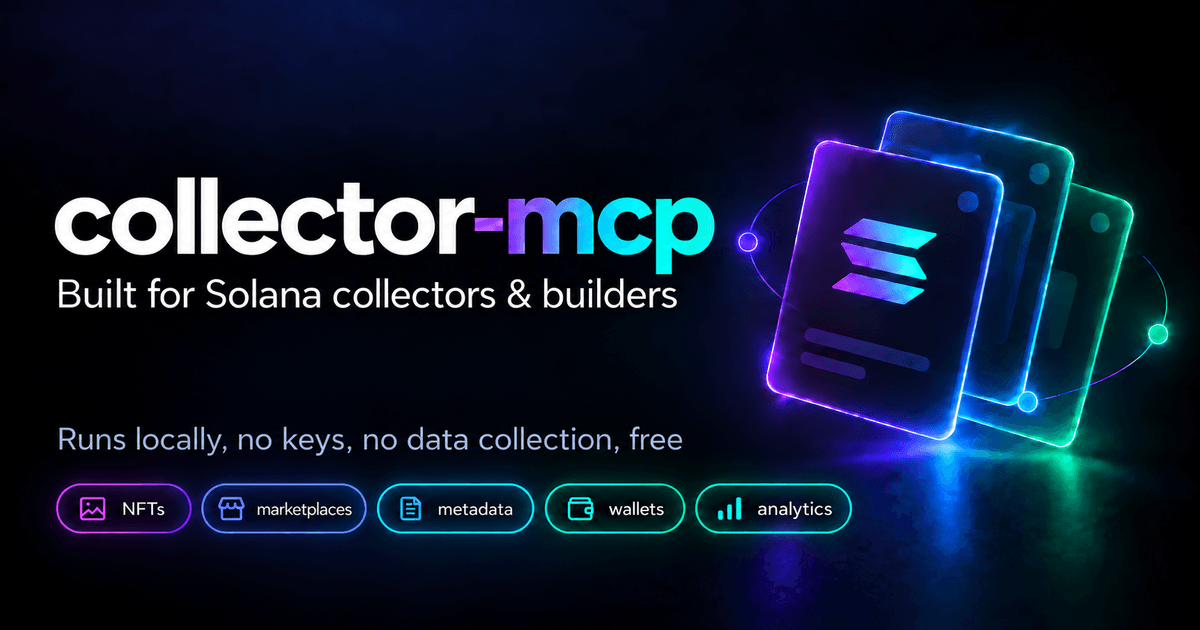
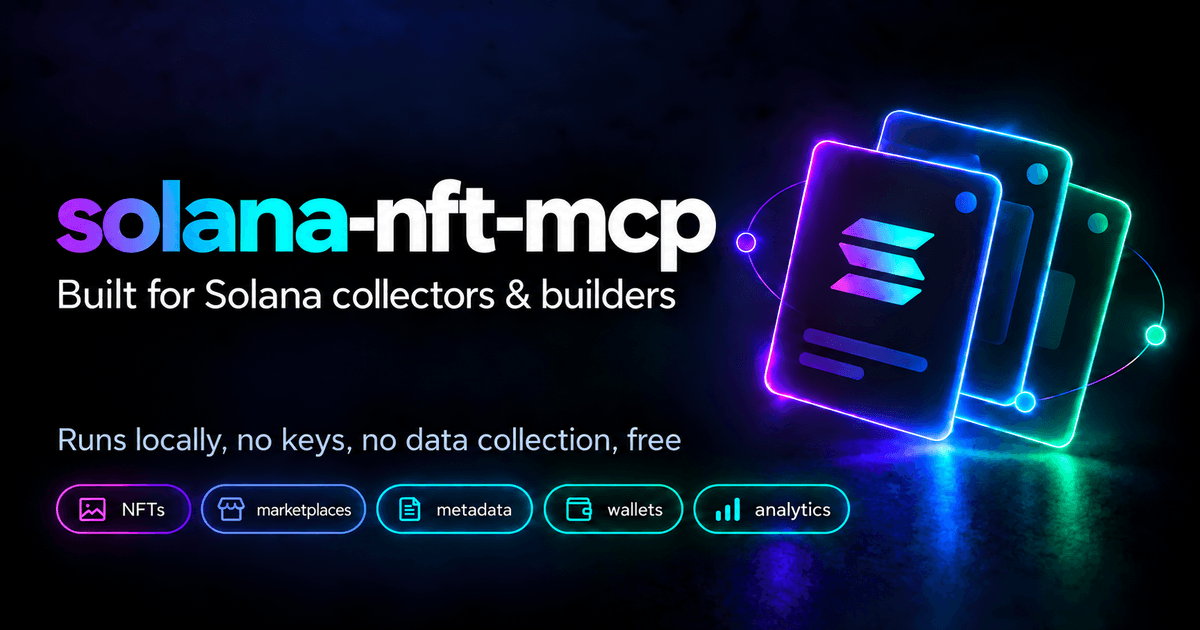
New artwork for the new name
The hero image and the square mark were redrawn, so every shipped picture is
regenerated from them: the README banner, the share card, the GitHub social
preview, and the icon the install bundle carries into a client's extension list.

All four are written without metadata, which is what the image check in CI
enforces. They are quantised rather than plain PNG: the first pass came out at
2.1 MB for the banner alone, and this is 400 KB with no visible banding. The
bundle got smaller, because the new icon is 61 KB where the old one was 240.

MAINTENANCE.md now records which source feeds which file, so the next redraw
resizes from the artwork instead of upscaling something already shipped.

Changed region(s): [[0.0308, 0.1508, 0.9867, 0.9952], [0.0308, 0.6635, 0.5858, 0.7238], [0.0925, 0.8444, 0.1233, 0.8746]]

diff --git a/docs/MAINTENANCE.md b/docs/MAINTENANCE.md
@@ -64,5 +64,13 @@ Three signals, none of which need you to remember to look:
 - `assets/banner.png`, `assets/architecture.svg` and `assets/using/candyscan.png` are the README's
   pictures. The diagram is generated: `npm run docs:architecture` redraws it from the running
   server and `--check` fails CI when it drifts.
+- `assets/icon-512.png` is the icon the install bundle carries, so it is what a client shows beside
+  the server in its extension list.
+- Four of those are derived from two pieces of source artwork that are NOT in the repository, in a
+  local `IMAGES/` folder: the hero image behind `banner.png`, `og.png` and `social-preview.png`, and
+  the square logo behind `icon-512.png` and the site's header logo. Redraw the source, then resize
+  from it rather than upscaling a shipped file.
+- Every shipped image is written without metadata on purpose. `npm run check:images` runs in CI and
+  fails on an embedded C2PA, XMP or editor block, so export clean or strip it on the way in.
 - `npm run test:compat` includes one group (x7, answer sizes) that reads real collections, so it
   needs the network; the other groups are offline. `npm test` does not run it.
